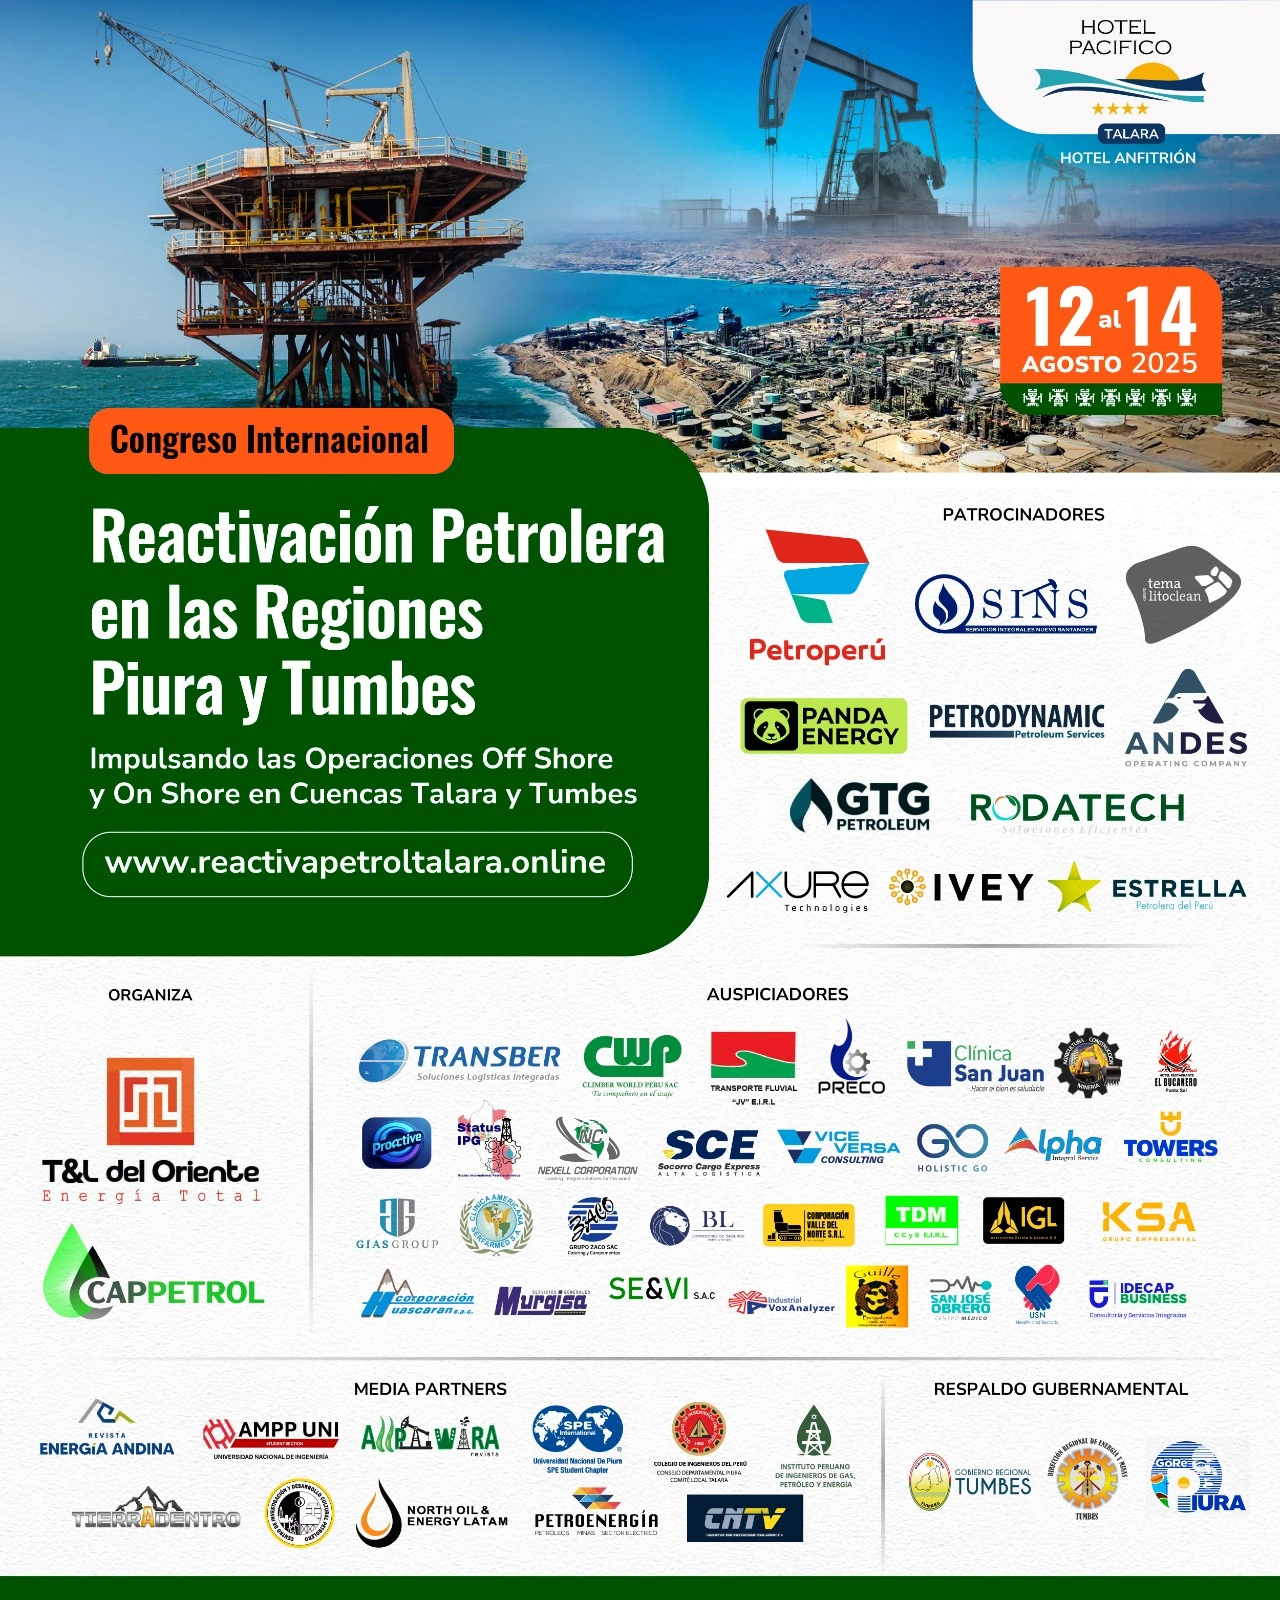
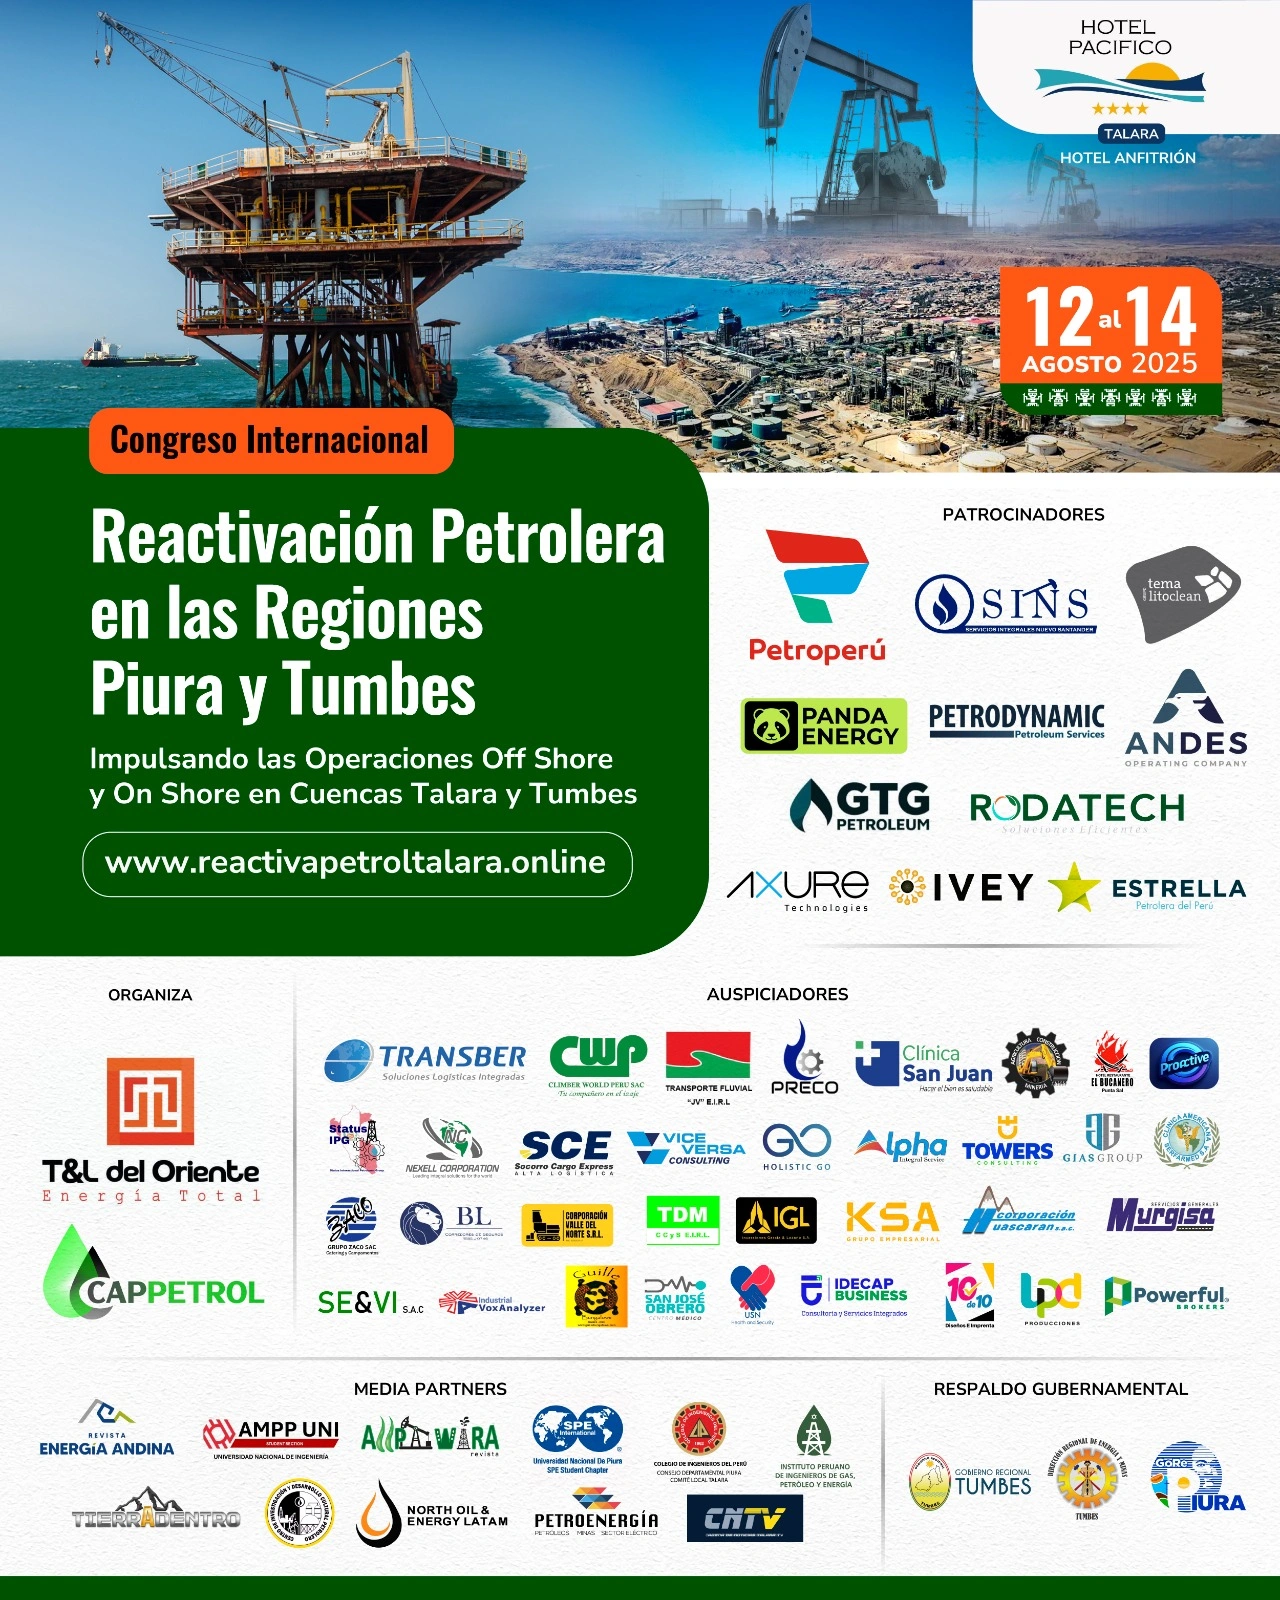
nuevas imagenes

Changed region(s): [[0.2188, 0.625, 0.9688, 0.8438]]

diff --git a/app/page.tsx b/app/page.tsx
@@ -1936,28 +1936,30 @@ export default function Home() {
                   )}
                 </div>
                 {/* Agregar septima fila con 3 recuadros adicionales */}
-                {/* <div className="grid grid-cols-1 sm:grid-cols-2 lg:grid-cols-3 gap-4 sm:gap-6 md:gap-8 items-center justify-items-center mt-6">
-                  {["zaco.jpg"].map((logo, index) => (
-                    <div
-                      key={index + 12}
-                      className="bg-white rounded-lg border-2 border-amber-500 shadow-md hover:shadow-lg transition-all duration-300 w-full max-w-[280px] flex items-center justify-center overflow-hidden group"
-                    >
-                      <Image
-                        src={logo}
-                        width={280}
-                        height={140}
-                        alt={
-                          index === 0
-                            ? "ProActive"
-                            : index === 1
-                            ? "Industrial Vox Analyzer"
-                            : "TRANSBER - Soluciones Logísticas Integradas"
-                        }
-                        className="w-auto h-auto max-w-full max-h-full object-contain group-hover:scale-[1.03] transition-transform duration-300"
-                      />
-                    </div>
-                  ))}
-                </div> */}
+                <div className="grid grid-cols-1 sm:grid-cols-2 lg:grid-cols-3 gap-4 sm:gap-6 md:gap-8 items-center justify-items-center mt-6">
+                  {["diezdediez.jpg", "lpdprod.jpg", "powerful.jpg"].map(
+                    (logo, index) => (
+                      <div
+                        key={index + 12}
+                        className="bg-white rounded-lg border-2 border-amber-500 shadow-md hover:shadow-lg transition-all duration-300 w-full max-w-[280px] flex items-center justify-center overflow-hidden group"
+                      >
+                        <Image
+                          src={logo}
+                          width={280}
+                          height={140}
+                          alt={
+                            index === 0
+                              ? "ProActive"
+                              : index === 1
+                              ? "Industrial Vox Analyzer"
+                              : "TRANSBER - Soluciones Logísticas Integradas"
+                          }
+                          className="w-auto h-auto max-w-full max-h-full object-contain group-hover:scale-[1.03] transition-transform duration-300"
+                        />
+                      </div>
+                    )
+                  )}
+                </div>
               </div>
             </div>
           </div>
